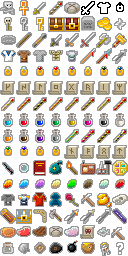
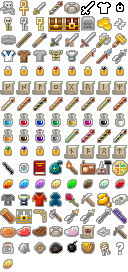
• Some visual bugs fixed related to pickaxe & descriptions of wheat, cooking pot & high wheat fixed. • Sprites of wheat, high wheat, cooking pot, wheat plant (renamed to overgrown wheat) & pickaxe replaced. • Reduced size of plants.png (There's just one plant more, so why adding another row?)

diff --git a/app/src/main/java/net/migaud/extendedpixeldungeon/levels/SewerLevel.java b/app/src/main/java/net/migaud/extendedpixeldungeon/levels/SewerLevel.java
@@ -151,6 +151,12 @@ public class SewerLevel extends RegularLevel {
 		switch (tile) {
 		case Terrain.WATER:
 			return "Murky water";
+		case Terrain.WHEAT:
+			return "Crushed wheat";
+		case Terrain.HIGH_WHEAT:
+			return "Grown wheat";
+		case Terrain.COOKING:
+			return "Cooking pot";
 		default:
 			return super.tileName( tile );
 		}
@@ -163,6 +169,12 @@ public class SewerLevel extends RegularLevel {
 			return "Wet yellowish moss covers the floor.";
 		case Terrain.BOOKSHELF:
 			return "The bookshelf is packed with cheap useless books. Might it burn?";
+		case Terrain.WHEAT:
+			return "Someone or something decided stepped on this wild crops.";
+		case Terrain.HIGH_WHEAT:
+			return "Wheat seeds brought to sewers from the surface grew up well enough. Perhaps you can make some food from these crops.";
+		case Terrain.COOKING:
+			return "A big metal stewpot. How is the liquid inside actually boiling?";
 		default:
 			return super.tileDesc( tile );
 		}

diff --git a/app/src/main/java/net/migaud/extendedpixeldungeon/plants/Wheat.java b/app/src/main/java/net/migaud/extendedpixeldungeon/plants/Wheat.java
@@ -33,8 +33,8 @@ public class Wheat extends Plant {
     private static final String TXT_DESC = "Wheat is the perfect plant to cook bread";
 
     {
-        image = 12;
-        plantName = "Wheat";
+        image = 8;
+        plantName = "Overgrown wheat";
     }
 
     @Override
@@ -57,10 +57,10 @@ public class Wheat extends Plant {
 
     public static class Seed extends Plant.Seed {
         {
-            plantName = "Wheat";
+            plantName = "wheat";
 
-            name = "seed of " + plantName;
-            image = ItemSpriteSheet.SEED_SUNGRASS;
+            name = "Seed of " + plantName;
+            image = ItemSpriteSheet.SEED_WHEAT;
 
             plantClass = Wheat.class;
             alchemyClass = PotionOfHealing.class;

diff --git a/app/src/main/java/net/migaud/extendedpixeldungeon/levels/features/CookingPot.java b/app/src/main/java/net/migaud/extendedpixeldungeon/levels/features/CookingPot.java
@@ -24,7 +24,7 @@ package net.migaud.extendedpixeldungeon.levels.features;
 
 public class CookingPot {
 
-    private static final String TXT_SELECT_SEED	= "Select a seed to throw";
+    private static final String TXT_SELECT_SEED	= "Select ingredients";
 
     private static Hero hero;
     private static int pos;

diff --git a/app/src/main/java/net/migaud/extendedpixeldungeon/sprites/ItemSpriteSheet.java b/app/src/main/java/net/migaud/extendedpixeldungeon/sprites/ItemSpriteSheet.java
@@ -132,6 +132,7 @@ public class ItemSpriteSheet {
 	public static final int SEED_EARTHROOT	= 93;
 	public static final int SEED_FADELEAF	= 94;
 	public static final int SEED_ROTBERRY	= 95;
+	public static final int SEED_WHEAT 		= 128;
 	
 	// Quest items
 	public static final int ROSE	= 100;
